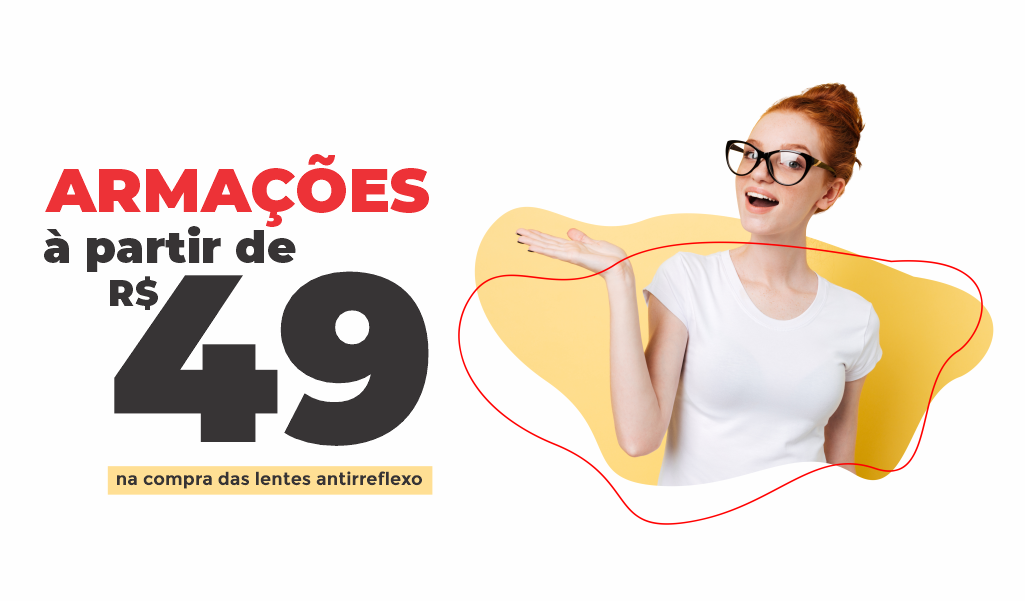
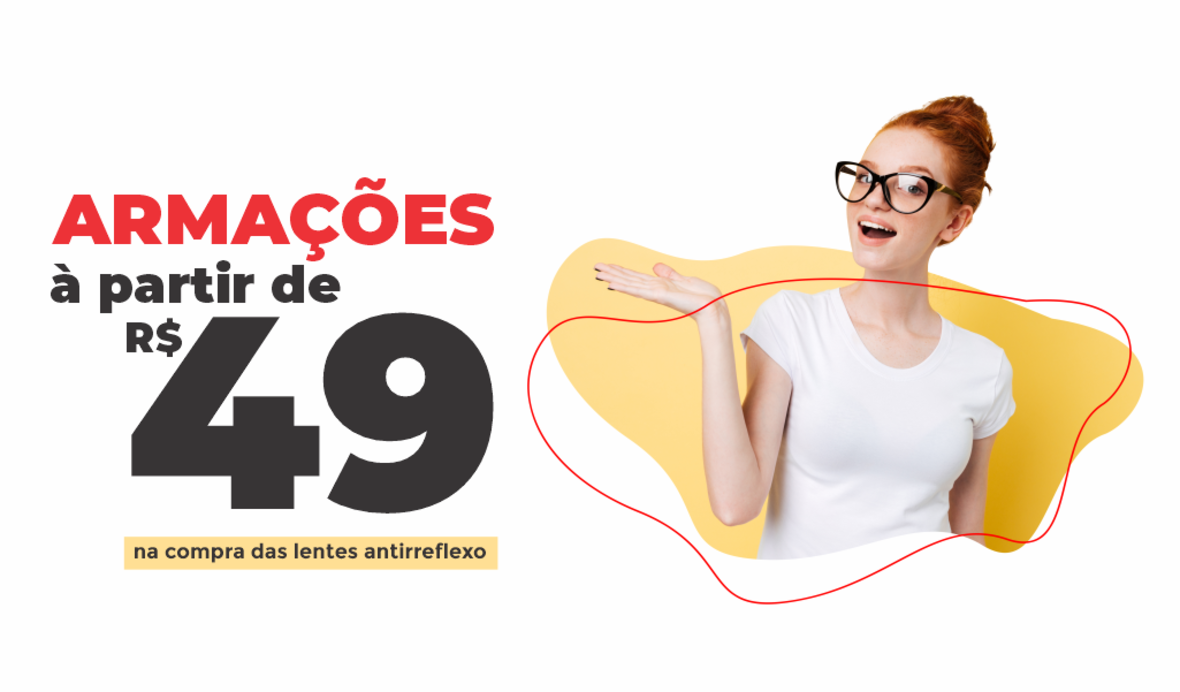
video e thumb

diff --git a/index.html b/index.html
@@ -106,8 +106,8 @@
 
         <div class="row">
           <div class="col-xl-5 col-lg-6 video-box d-flex justify-content-center align-items-stretch">
-            <!--  <a href="https://www.youtube.com/watch?v=jDDaplaOz7Q" class="venobox play-btn mb-4" data-vbtype="video"
-              data-autoplay="true"></a>-->
+             <a href="https://www.youtube.com/watch?v=LQ-CMhg1J38&feature=youtu.be" class="venobox play-btn mb-4" data-vbtype="video"
+              data-autoplay="true"></a>
           </div>
 
           <div

diff --git a/assets/css/style.css b/assets/css/style.css
@@ -958,7 +958,7 @@ section {
 }
 
 .about .video-box {
-  background: url("../img/about.jpg") center center no-repeat;
+  background: url("../img/tumb-video-gabyptica.png") center center no-repeat;
   background-size: cover;
   min-height: 500px;
 }
